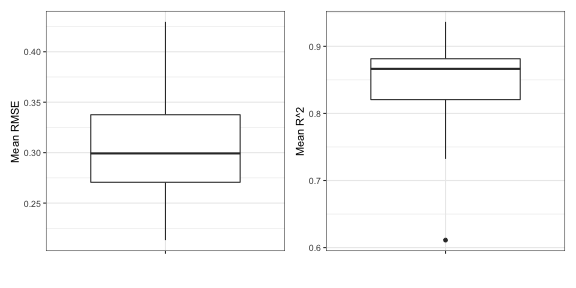
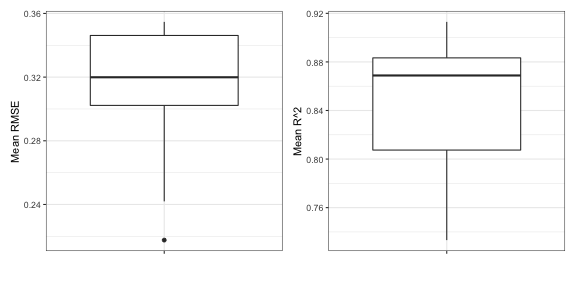
slides update with fit

diff --git a/slides/slides_modelevaluation.html b/slides/slides_modelevaluation.html
@@ -4,7 +4,6 @@
     <title>Introduction to model evaluation/validation</title>
     <meta charset="utf-8" />
     <meta name="author" content="Stephanie J. Spielman" />
-    <script src="slides_modelevaluation_files/header-attrs-2.1/header-attrs.js"></script>
     <link href="slides_modelevaluation_files/remark-css-0.0.1/default.css" rel="stylesheet" />
     <link href="slides_modelevaluation_files/remark-css-0.0.1/default-fonts.css" rel="stylesheet" />
   </head>
@@ -113,6 +112,29 @@ broom::glance(fit)
 
 ---
 
+## Use that model going forward easily
+
+
+```r
+## reminding you of the fit variable:
+fit &lt;- step( lm(Sepal.Length ~ ., data = iris), trace = F  )
+
+
+## Extract the FORMULA as fit$formula
+lm(fit$formula, data = iris)
+## 
+## Call:
+## lm(formula = fit$formula, data = iris)
+## 
+## Coefficients:
+##       (Intercept)        Sepal.Width       Petal.Length  
+##            2.1713             0.4959             0.8292  
+##       Petal.Width  Speciesversicolor   Speciesvirginica  
+##           -0.3152            -0.7236            -1.0235
+```
+
+---
+
 ## Validation with testing/training
 
 + Randomly **split** your dataset into two parts:
@@ -123,7 +145,7 @@ broom::glance(fit)
 
 ---
 
-## Cross validation with training and testing sets
+## Cross validation with a training and testing split
 
 
 ```r
@@ -139,17 +161,19 @@ nrow(training_iris)
 # Get the "anti training" for testing.. with anti_join()!
 # In anti_join(), the FULL data goes FIRST!!
 testing_iris &lt;- anti_join(iris, training_iris) ## remaining 30% into training
-## Joining, by = c("Sepal.Length", "Sepal.Width", "Petal.Length", "Petal.Width", "Species")
+## Joining, by = c("Sepal.Length", "Sepal.Width", "Petal.Length",
+## "Petal.Width", "Species")
 nrow(testing_iris)
-## [1] 44
+## [1] 45
 ```
 --
 
 
 ```r
 ## TRAIN the model on training data: data = training_iris !!
-trained_model &lt;- step( lm(Sepal.Length ~ ., data = training_iris), trace=F   )
+trained_model &lt;- lm(fit$formula, data = training_iris)
 ```
++ We should **NOT** use `step()` here. WHY?????
 
 ---
 
@@ -159,9 +183,9 @@ trained_model &lt;- step( lm(Sepal.Length ~ ., data = training_iris), trace=F   
 ```r
 ## How does the model do on data it was TRAINED ON?
 modelr::rsquare(trained_model, training_iris)
-## [1] 0.8616469
+## [1] 0.8864441
 modelr::rmse(trained_model, training_iris)
-## [1] 0.2985625
+## [1] 0.2881651
 ```
 
 --
@@ -170,9 +194,9 @@ modelr::rmse(trained_model, training_iris)
 ```r
 ## How does the model do on data it has NEVER SEEN? The testing data!!
 modelr::rsquare(trained_model, testing_iris)
-## [1] 0.8788238
+## [1] 0.8025335
 modelr::rmse(trained_model, testing_iris)
-## [1] 0.3078842
+## [1] 0.3530393
 ```
 
 ---
@@ -206,11 +230,6 @@ folds &lt;- 10
 
 # Use the amazzzzing function modelr::crossv_kfold()
 *crossv_kfold(iris, folds)
-## Warning: `as_data_frame()` is deprecated as of tibble 2.0.0.
-## Please use `as_tibble()` instead.
-## The signature and semantics have changed, see `?as_tibble`.
-## This warning is displayed once every 8 hours.
-## Call `lifecycle::last_warnings()` to see where this warning was generated.
 ## # A tibble: 10 x 3
 ##    train        test         .id  
 ##    &lt;named list&gt; &lt;named list&gt; &lt;chr&gt;
@@ -333,8 +352,9 @@ iris_kfold
 
 ```r
 ## DEFINE THE FUNCTION!! IT'S JUST THE MODEL!!!
+## THIS IS IMPORTANT: As written ASSUMES (!!!!!!) fir$formula was defined in code ABOVE this function
 my_iris_model &lt;- function(input_data){
-  step(lm(Sepal.Length ~ ., data = input_data), trace =  F)
+  lm(fit$formula, data = input_data)
 }
 
 iris_kfold %&gt;%
@@ -370,32 +390,38 @@ iris_kfold %&gt;%
 ## # A tibble: 10 x 6
 ##    train        test         .id   model_fit    test_rmse test_rsq
 ##    &lt;named list&gt; &lt;named list&gt; &lt;chr&gt; &lt;named list&gt;     &lt;dbl&gt;    &lt;dbl&gt;
-##  1 &lt;resample&gt;   &lt;resample&gt;   01    &lt;lm&gt;             0.271    0.874
-##  2 &lt;resample&gt;   &lt;resample&gt;   02    &lt;lm&gt;             0.213    0.932
-##  3 &lt;resample&gt;   &lt;resample&gt;   03    &lt;lm&gt;             0.277    0.732
-##  4 &lt;resample&gt;   &lt;resample&gt;   04    &lt;lm&gt;             0.239    0.936
-##  5 &lt;resample&gt;   &lt;resample&gt;   05    &lt;lm&gt;             0.399    0.611
-##  6 &lt;resample&gt;   &lt;resample&gt;   06    &lt;lm&gt;             0.339    0.807
-##  7 &lt;resample&gt;   &lt;resample&gt;   07    &lt;lm&gt;             0.322    0.872
-##  8 &lt;resample&gt;   &lt;resample&gt;   08    &lt;lm&gt;             0.430    0.860
-##  9 &lt;resample&gt;   &lt;resample&gt;   09    &lt;lm&gt;             0.335    0.860
-## 10 &lt;resample&gt;   &lt;resample&gt;   10    &lt;lm&gt;             0.270    0.884
+##  1 &lt;resample&gt;   &lt;resample&gt;   01    &lt;lm&gt;             0.340    0.792
+##  2 &lt;resample&gt;   &lt;resample&gt;   02    &lt;lm&gt;             0.337    0.842
+##  3 &lt;resample&gt;   &lt;resample&gt;   03    &lt;lm&gt;             0.296    0.862
+##  4 &lt;resample&gt;   &lt;resample&gt;   04    &lt;lm&gt;             0.348    0.850
+##  5 &lt;resample&gt;   &lt;resample&gt;   05    &lt;lm&gt;             0.337    0.810
+##  6 &lt;resample&gt;   &lt;resample&gt;   06    &lt;lm&gt;             0.270    0.883
+##  7 &lt;resample&gt;   &lt;resample&gt;   07    &lt;lm&gt;             0.326    0.840
+##  8 &lt;resample&gt;   &lt;resample&gt;   08    &lt;lm&gt;             0.257    0.924
+##  9 &lt;resample&gt;   &lt;resample&gt;   09    &lt;lm&gt;             0.349    0.876
+## 10 &lt;resample&gt;   &lt;resample&gt;   10    &lt;lm&gt;             0.267    0.879
 ```
 
 ---
 
-## Put it all together
+## Putting it all together: model selection and k-fold CV
 
 
 ```r
+# Initial model selection (with ENTIRE data set) to determine predictors
+fit &lt;- step(lm(Sepal.Length ~ ., data = iris), trace =  F)
+
+# Function for use in cross-validation
 my_iris_model &lt;- function(input_data){
-  step(lm(Sepal.Length ~ ., data = input_data), trace =  F)
+  lm(fit$formula, data = input_data)
 }
 
-iris_kfold %&gt;%
-  mutate( model_fit = purrr::map( train, my_iris_model ),
+# Validate your model
+folds &lt;- 10
+crossv_kfold(iris, folds) %&gt;%
+  mutate( model_fit = purrr::map(train, my_iris_model),
           test_rmse = purrr::map2_dbl(model_fit, test, rmse),  
-          test_rsq  = purrr::map2_dbl(model_fit, test, rsquare)) -&gt; result_iris_kfold
+          test_rsq  = purrr::map2_dbl(model_fit, test, rsquare)) -&gt; result_kfold
 ```
 
 
@@ -404,13 +430,13 @@ iris_kfold %&gt;%
 ## Summarizing our results
 
 ```r
-result_iris_kfold %&gt;%
+result_kfold %&gt;%
   summarize(mean_rmse = mean(test_rmse),
             mean_rsq  = mean(test_rsq))
 ## # A tibble: 1 x 2
 ##   mean_rmse mean_rsq
 ##       &lt;dbl&gt;    &lt;dbl&gt;
-## 1     0.309    0.837
+## 1     0.312    0.852
 ```
 
 + We expect, when used on data the model has never seen, it will predict `\(R^2\)` of variation in sepal lengths 
@@ -430,11 +456,11 @@ result_iris_kfold %&gt;%
 
 
 ```r
-result_iris_kfold %&gt;%
+result_kfold %&gt;%
   ggplot(aes(x = "", y = test_rmse)) + geom_boxplot() + 
   xlab("") + ylab("Mean RMSE")-&gt; rmse_box
 
-result_iris_kfold %&gt;%
+result_kfold %&gt;%
   ggplot(aes(x = "", y = test_rsq)) + geom_boxplot() + 
   xlab("") + ylab("Mean R^2") -&gt; rsq_box
 
@@ -442,7 +468,7 @@ result_iris_kfold %&gt;%
 rmse_box + rsq_box
 ```
 
-![](slides_modelevaluation_files/figure-html/unnamed-chunk-21-1.png)&lt;!-- --&gt;
+![](slides_modelevaluation_files/figure-html/unnamed-chunk-22-1.png)&lt;!-- --&gt;
 
 ---
 
@@ -453,9 +479,9 @@ rmse_box + rsq_box
 
 
 ```r
-# Reminding you of this function we wrote!
+# Reminding you of this function, but you only need to define it once
 my_iris_model &lt;- function(input_data){
-  step(lm(Sepal.Length ~ ., data = input_data), trace =  F)
+  lm(fit$formula, data = input_data)
 }
 
 
@@ -480,10 +506,8 @@ Once we have our model, we can predict future outcomes. **Remember: Model evalua
 
 
 ```r
-## here's our model
-fit &lt;- step( lm(Sepal.Length ~ ., data = iris), trace = F  )
-
-broom::tidy(fit) # just to see which predictors are there - and it's all!!
+# reminder for what our model predictors are
+broom::tidy(fit) 
 ## # A tibble: 6 x 5
 ##   term              estimate std.error statistic  p.value
 ##   &lt;chr&gt;                &lt;dbl&gt;     &lt;dbl&gt;     &lt;dbl&gt;    &lt;dbl&gt;
@@ -499,14 +523,14 @@ broom::tidy(fit) # just to see which predictors are there - and it's all!!
 
 ## Making predictions!
 
++ Predict using a tibble with columns **EXACTLY NAMED** as model predictor variables in the model formula
 
 ```r
-## Predict using a TIBBLE with columns EXACTLY NAMED as MODEL PREDICTORS
 ## Oh look a new observation where we measured PREDICTORS
-new_iris &lt;- tibble(Sepal.Width = 4.1, 
+new_iris &lt;- tibble(Sepal.Width  = 4.1, 
                    Petal.Length = 3.7, 
-                   Petal.Width = 1.1, 
-                   Species = "virginica")
+                   Petal.Width  = 1.1, 
+                   Species      = "virginica")
 
 # arguments in order: NEWDATA, MODEL
 modelr::add_predictions(new_iris, fit)
@@ -572,20 +596,30 @@ if (window.HTMLWidgets) slideshow.on('afterShowSlide', function (slide) {
 })();
 (function() {
   "use strict"
-  // Replace <script> tags in slides area to make them executable
+  /* Replace <script> tags in slides area to make them executable
+   *
+   * Runs after post-processing of markdown source into slides and replaces only
+   * <script>s on the last slide of continued slides using the .has-continuation
+   * class added by xaringan. Finally, any <script>s in the slides area that
+   * aren't executed are commented out.
+   */
   var scripts = document.querySelectorAll(
-    '.remark-slides-area .remark-slide-container script'
+    '.remark-slides-area .remark-slide-container:not(.has-continuation) script'
   );
   if (!scripts.length) return;
   for (var i = 0; i < scripts.length; i++) {
     var s = document.createElement('script');
     var code = document.createTextNode(scripts[i].textContent);
     s.appendChild(code);
-    var scriptAttrs = scripts[i].attributes;
-    for (var j = 0; j < scriptAttrs.length; j++) {
-      s.setAttribute(scriptAttrs[j].name, scriptAttrs[j].value);
-    }
     scripts[i].parentElement.replaceChild(s, scripts[i]);
+  }
+  var scriptsNotExecuted = document.querySelectorAll(
+    '.remark-slides-area .remark-slide-container.has-continuation script'
+  );
+  if (!scriptsNotExecuted.length) return;
+  for (var i = 0; i < scriptsNotExecuted.length; i++) {
+    var comment = document.createComment(scriptsNotExecuted[i].outerHTML)
+    scriptsNotExecuted[i].parentElement.replaceChild(comment, scriptsNotExecuted[i])
   }
 })();
 (function() {

diff --git a/rmd_lessons/09-model-evaluation.html b/rmd_lessons/09-model-evaluation.html
@@ -466,11 +466,13 @@ summary {
 <span id="cb1-34"><a href="#cb1-34"></a><span class="co">## $ Forearm &lt;dbl&gt; 27.4, 25.2, 29.4, 30.6, 27.8, 29.0, 31.1, 30.0, 29.4, 30…</span></span>
 <span id="cb1-35"><a href="#cb1-35"></a><span class="co">## $ Wrist   &lt;dbl&gt; 17.1, 16.6, 18.2, 18.8, 17.7, 18.8, 18.2, 19.2, 18.5, 19…</span></span></code></pre></div>
 </div>
-<div id="part-1-construct-a-model-using-model-selection" class="section level2">
-<h2>Part 1: Construct a model using model selection</h2>
-<p>Using the <code>step()</code> function, determine the most appropriate model to explain variation in bodyfat percentage in this data. Examine the model output with the <code>summary</code> function, and answer questions below. <strong>You will use this model for all model evaluation questions.</strong></p>
+<div id="part-1-build-a-model-using-aic-stepwise-model-selection" class="section level2">
+<h2>Part 1: Build a model using AIC stepwise model selection</h2>
+<p>Using the <code>step()</code> function, determine the most appropriate model to explain variation in bodyfat percentage in this data. Examine the model output with the <code>summary</code> function, and answer questions below. <strong>You will use this model (aka you will specify these predictors) for all model evaluation questions.</strong></p>
 <div class="sourceCode" id="cb2"><pre class="sourceCode r"><code class="sourceCode r"><span id="cb2-1"><a href="#cb2-1"></a><span class="co">## Use step() to build and save a model to explain Percent. PLEASE use the argument trace=F when calling step()!!</span></span>
-<span id="cb2-2"><a href="#cb2-2"></a><span class="co">## Examine output with summary</span></span></code></pre></div>
+<span id="cb2-2"><a href="#cb2-2"></a></span>
+<span id="cb2-3"><a href="#cb2-3"></a></span>
+<span id="cb2-4"><a href="#cb2-4"></a><span class="co">## Examine output with summary OR broom functions tidy and glance</span></span></code></pre></div>
 <div id="part-1-questions-answer-the-questions-in-the-templated-bullets" class="section level4">
 <h4>Part 1 questions: Answer the questions in the templated bullets!</h4>
 <ol style="list-style-type: decimal">
@@ -498,8 +500,8 @@ summary {
 </div>
 <div id="part-2-evaluate-the-model-using-several-approaches" class="section level2">
 <h2>Part 2: Evaluate the model using several approaches</h2>
-<div id="part-2.1-testing-and-training-approach" class="section level3">
-<h3>Part 2.1: Testing and training approach</h3>
+<div id="part-2.1-training-and-testing-approach" class="section level3">
+<h3>Part 2.1: Training and testing approach</h3>
 <p><strong>First, use a simple train/test approach</strong>, where the training data is a random subset comprising 65% of the total dataset. Determine the R-squared (<code>modelr::rsquare()</code>) and RMSE (<code>modelr::rmse()</code>) as determined from the training AND testing data.</p>
 <div class="sourceCode" id="cb4"><pre class="sourceCode r"><code class="sourceCode r"><span id="cb4-1"><a href="#cb4-1"></a><span class="co">## split data into train and test, using this variable as part of your code:</span></span>
 <span id="cb4-2"><a href="#cb4-2"></a>training_frac &lt;-<span class="st"> </span><span class="fl">0.65</span></span>
@@ -529,17 +531,18 @@ summary {
 <div id="part-2.2-k-fold-cross-validation" class="section level3">
 <h3>Part 2.2: K-fold cross validation</h3>
 <p>Use k-fold cross validation with <strong>15 folds</strong> to evaluate the model. Determine the <span class="math inline">\(R^2\)</span> and RMSE for each fold, and <em>visualize</em> the distributions of <span class="math inline">\(R^2\)</span> and RMSE in two separate plots that you <em>add together with patchwork</em>. You should also calculate the mean <span class="math inline">\(R^2\)</span> and mean RMSE values.</p>
-<div class="sourceCode" id="cb5"><pre class="sourceCode r"><code class="sourceCode r"><span id="cb5-1"><a href="#cb5-1"></a><span class="co">## First define the FUNCTION you will use with purrr::map which contains your linear model</span></span>
-<span id="cb5-2"><a href="#cb5-2"></a>my_bodyfat_model &lt;-<span class="st"> </span><span class="cf">function</span>(input_data){</span>
-<span id="cb5-3"><a href="#cb5-3"></a>  <span class="co"># eh?? what goes in here??  </span></span>
-<span id="cb5-4"><a href="#cb5-4"></a>}</span>
-<span id="cb5-5"><a href="#cb5-5"></a></span>
-<span id="cb5-6"><a href="#cb5-6"></a><span class="co">## perform k-fold cross validation, using this variable in your code</span></span>
-<span id="cb5-7"><a href="#cb5-7"></a>number_folds &lt;-<span class="st"> </span><span class="dv">15</span></span>
-<span id="cb5-8"><a href="#cb5-8"></a></span>
-<span id="cb5-9"><a href="#cb5-9"></a><span class="co">## Calculate the mean R^2 and RMSE </span></span>
-<span id="cb5-10"><a href="#cb5-10"></a></span>
-<span id="cb5-11"><a href="#cb5-11"></a><span class="co">## Make figures for R^2 and RMSE, which clearly show the MEAN values for each distribution using stat_summary() or similar</span></span></code></pre></div>
+<div class="sourceCode" id="cb5"><pre class="sourceCode r"><code class="sourceCode r"><span id="cb5-1"><a href="#cb5-1"></a><span class="co">## First define the FUNCTION you will use with purrr::map which contains your linear model.</span></span>
+<span id="cb5-2"><a href="#cb5-2"></a><span class="co">## Do NOT use step() in here - you should have used step in Part 1 to know which predictors should be included here</span></span>
+<span id="cb5-3"><a href="#cb5-3"></a>my_bodyfat_model &lt;-<span class="st"> </span><span class="cf">function</span>(input_data){</span>
+<span id="cb5-4"><a href="#cb5-4"></a>  <span class="co"># eh?? what goes in here??  </span></span>
+<span id="cb5-5"><a href="#cb5-5"></a>}</span>
+<span id="cb5-6"><a href="#cb5-6"></a></span>
+<span id="cb5-7"><a href="#cb5-7"></a><span class="co">## perform k-fold cross validation, using this variable in your code</span></span>
+<span id="cb5-8"><a href="#cb5-8"></a>number_folds &lt;-<span class="st"> </span><span class="dv">15</span></span>
+<span id="cb5-9"><a href="#cb5-9"></a></span>
+<span id="cb5-10"><a href="#cb5-10"></a><span class="co">## Calculate the mean R^2 and RMSE </span></span>
+<span id="cb5-11"><a href="#cb5-11"></a></span>
+<span id="cb5-12"><a href="#cb5-12"></a><span class="co">## Make figures for R^2 and RMSE, which clearly show the MEAN values for each distribution using stat_summary() or similar (unless you make a boxplot, which already shows the median)</span></span></code></pre></div>
 <div id="part-2.2-questions-answer-the-questions-in-the-templated-bullets" class="section level4">
 <h4>Part 2.2 questions: Answer the questions in the templated bullets!</h4>
 <ol style="list-style-type: decimal">
@@ -561,7 +564,7 @@ summary {
 <span id="cb6-3"><a href="#cb6-3"></a></span>
 <span id="cb6-4"><a href="#cb6-4"></a><span class="co">## Calculate the mean of RMSE </span></span>
 <span id="cb6-5"><a href="#cb6-5"></a></span>
-<span id="cb6-6"><a href="#cb6-6"></a><span class="co">## Make figure of RMSE distribution, which clearly shows the MEAN value for the distribution using stat_summary() </span></span></code></pre></div>
+<span id="cb6-6"><a href="#cb6-6"></a><span class="co">## Make figure of RMSE distribution, which clearly shows the MEAN value for the distribution using stat_summary() (unless you make a boxplot, which already shows the median)</span></span></code></pre></div>
 <div id="part-2.3-question-answer-the-questions-in-the-templated-bullets" class="section level4">
 <h4>Part 2.3 question: Answer the questions in the templated bullets!</h4>
 <ol style="list-style-type: decimal">
@@ -616,15 +619,16 @@ summary {
 </ul></li>
 </ul>
 <div class="sourceCode" id="cb7"><pre class="sourceCode r"><code class="sourceCode r"><span id="cb7-1"><a href="#cb7-1"></a><span class="co">## Make a SINGLE tibble with THREE ROWS (one per observed new man), and use this tibble to predict outcomes with `modelr::add_predictions()</span></span>
-<span id="cb7-2"><a href="#cb7-2"></a><span class="co">## HINT: See the tidyr assignment for different ways to a tibble directly within R</span></span></code></pre></div>
+<span id="cb7-2"><a href="#cb7-2"></a><span class="co">## HINT: See the tidyr assignment for different ways to make a tibble directly within R</span></span></code></pre></div>
 <div id="part-3-answers" class="section level4">
 <h4>Part 3 answers:</h4>
 <p>Stick the answer after the colon for each bullet <strong>in bold</strong>:</p>
 <ul>
-<li>Man 1’s predicted body fat percent is:</li>
-<li>Man 2’s predicted body fat percent is:</li>
-<li>Man 3’s predicted body fat percent is:</li>
+<li>Bob’s predicted body fat percent is:</li>
+<li>Bill’s predicted body fat percent is:</li>
+<li>Fred’s predicted body fat percent is:</li>
 </ul>
+<p><strong>BONUS QUESTION!</strong> Which of the three predictions (Bob, Bill, and Fred) do you think is LEAST reliable? You may need some code to figure out which one, so add in below as needed!!</p>
 </div>
 </div>
 
